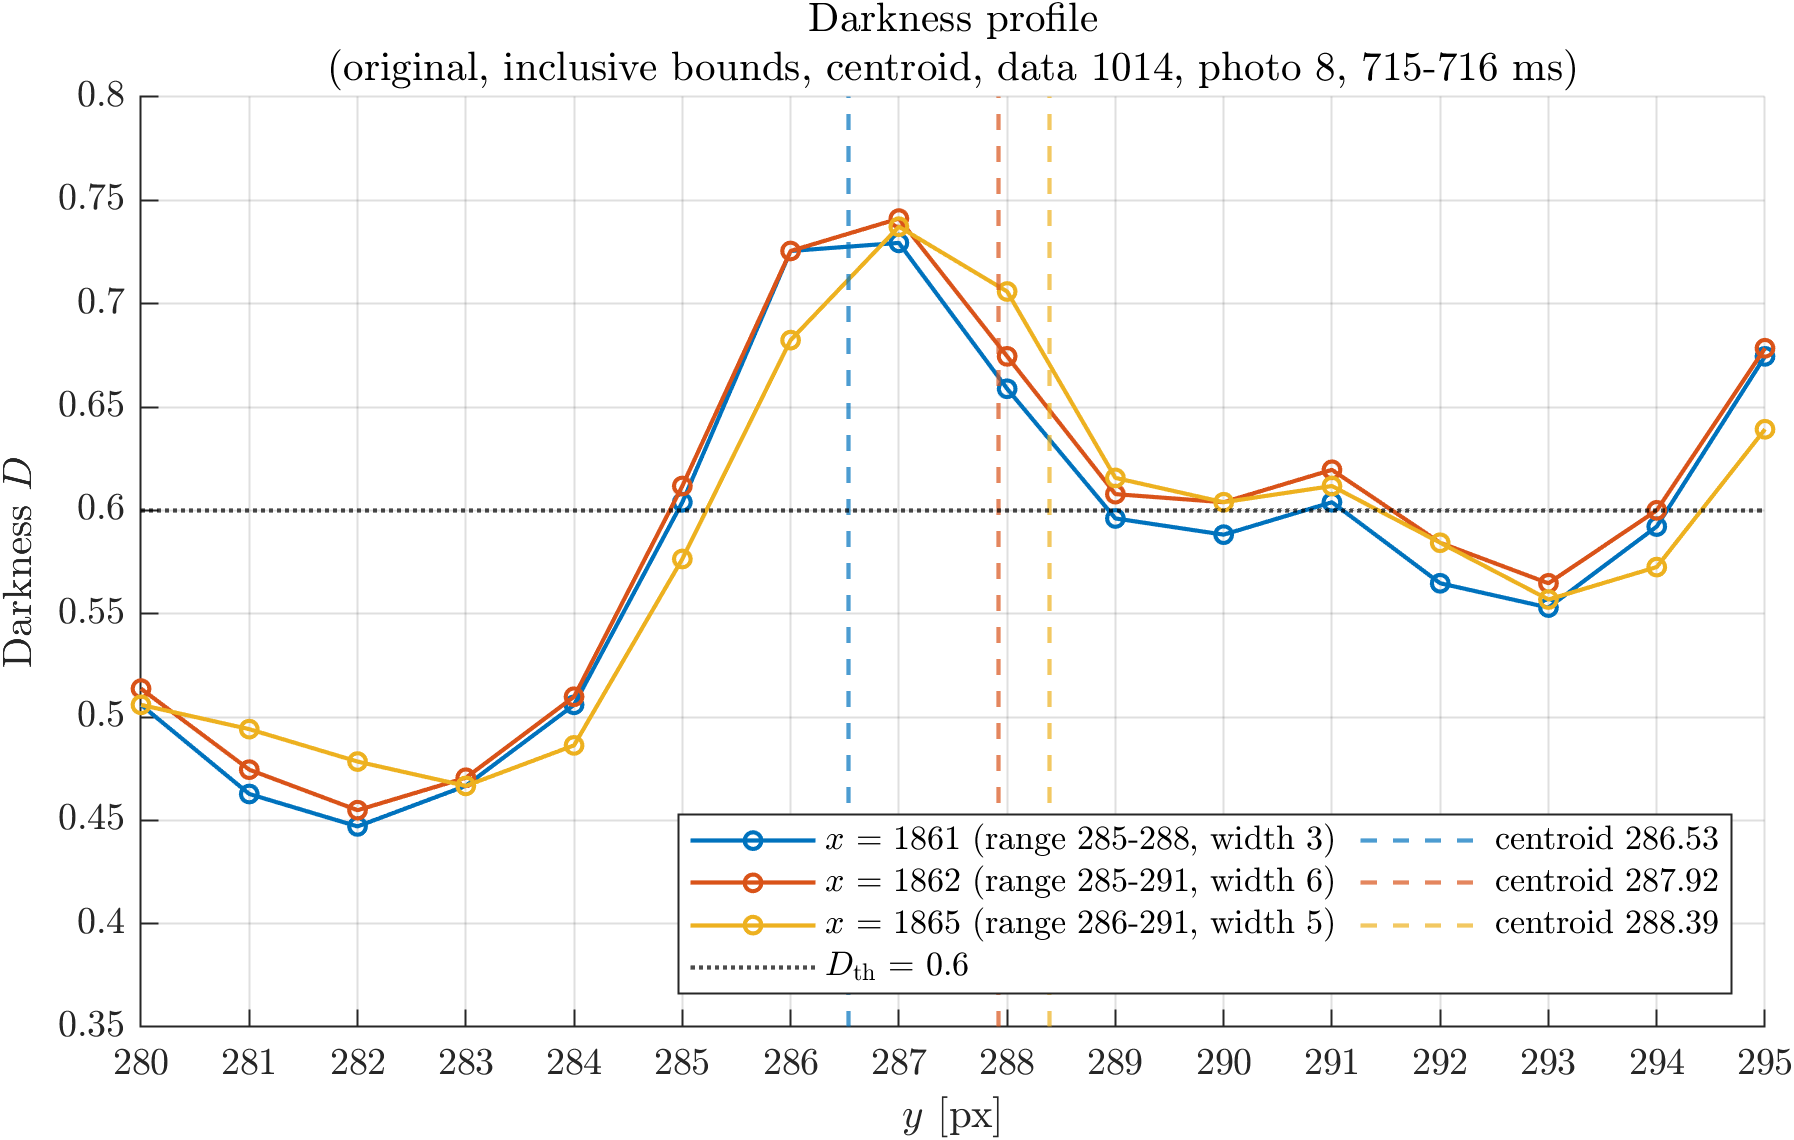
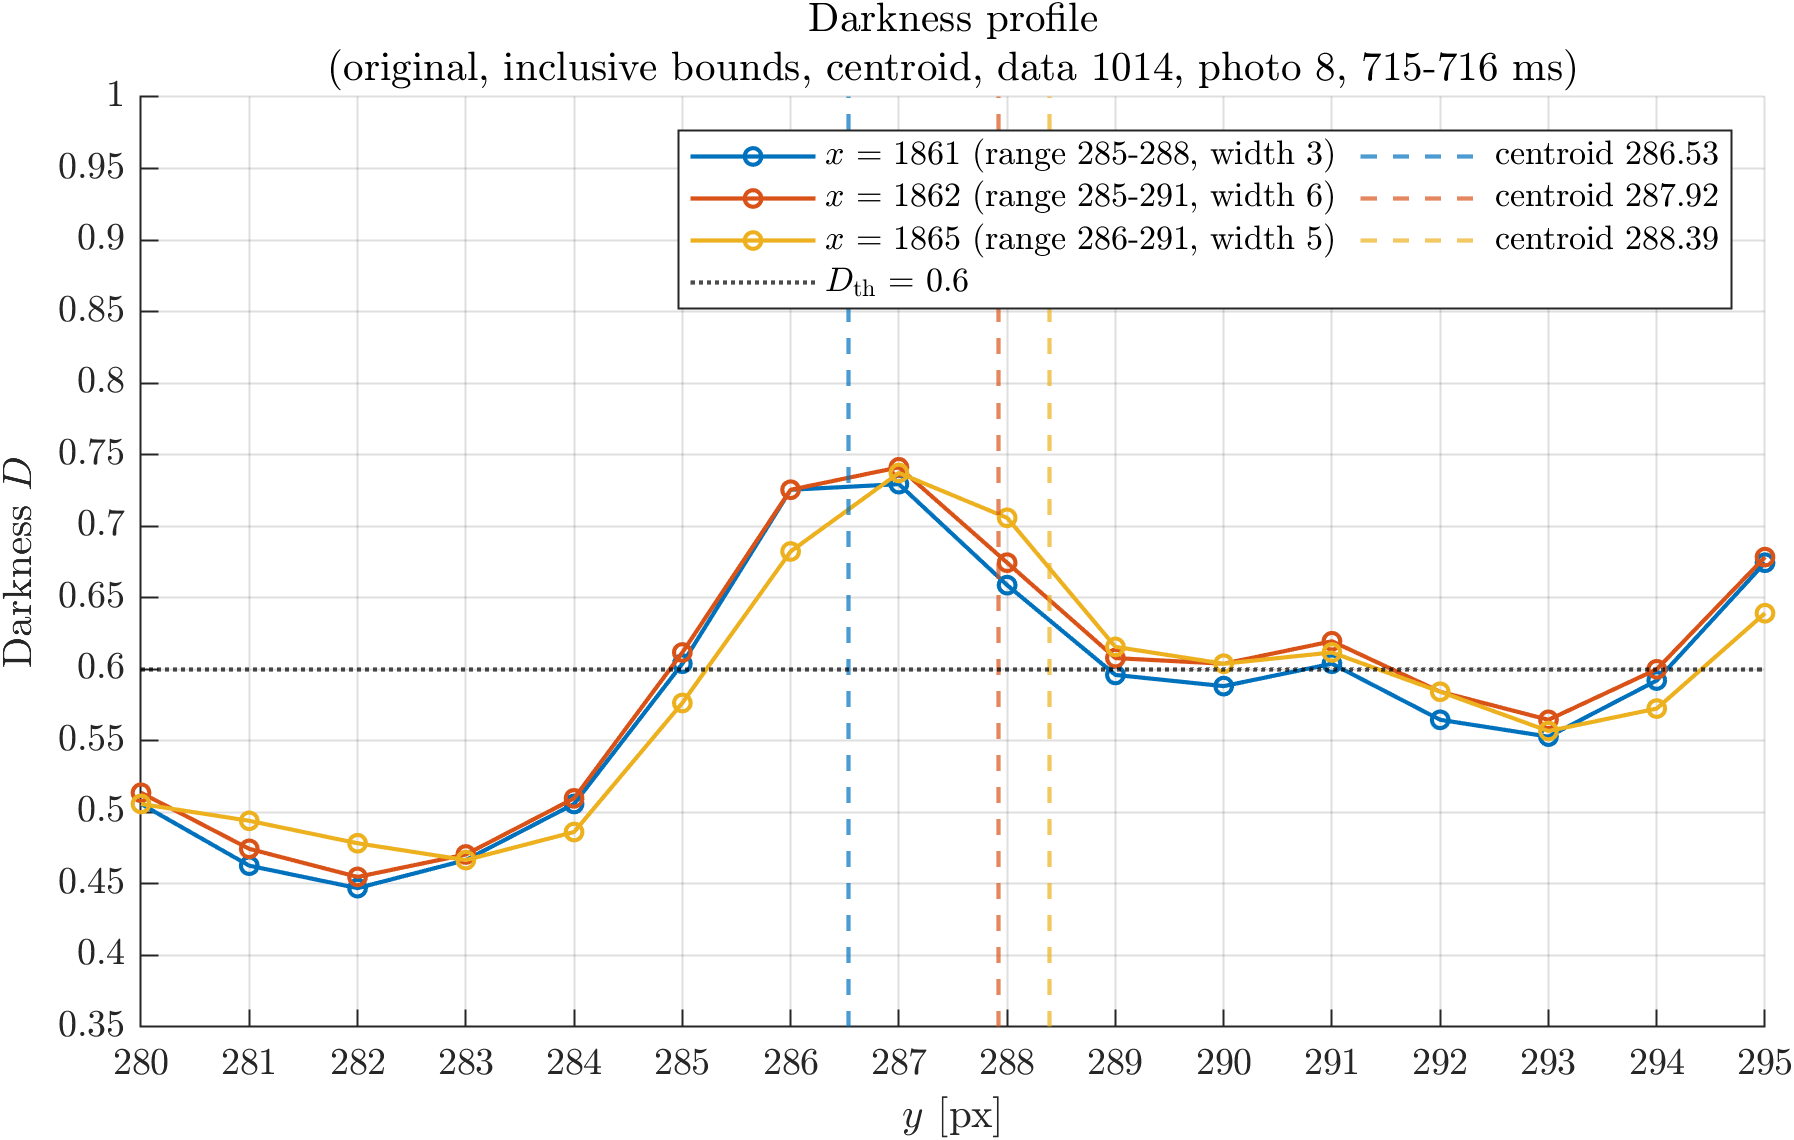
#35 の進捗報告の素材：M3 の凡例を右上の2列にして作り直す
ユーザーの決定で、M3 の凡例を右上に2列で置き、暗さの軸を 0.35〜1.0 にした。

Agent: illustrator
Agent: main

diff --git a/scripts/progress/wideBottomOutlier.m b/scripts/progress/wideBottomOutlier.m
@@ -26,9 +26,9 @@
 %            M2・M3 を作り直した
 % 2026/11/23 ユーザーの決定で、凡例の位置を右上（northeast）にそろえ、OVERWRITE=true で M2 だけを作り直した
 %            （MAKE_FIGS.profile=false）。M3 は右上にすると凡例が折れ線の山を隠すので、右下のまま残した
-% 2026/11/23 M3 の凡例を右上にし、暗さの軸の上限を 0.95 に上げる試しを temp/ のコピーで作った。凡例が
-%            3本の破線の上の部分にかかるので、M3 は保存せず、パラメータを右下・上限 0.8 に戻した。暗さの軸の
-%            目盛りの間隔（D_TICK）を決めるようにした（上限 0.8 では、前と同じ目盛りになる）
+% 2026/11/23 ユーザーの決定で、M3 の凡例を右上（2列）にし、暗さの軸を 0.35〜1.0（目盛りの間隔 0.05。
+%            D_TICK）にした。凡例が重心の破線の上の部分にかかるのは、ユーザーが受け入れた。OVERWRITE=true で
+%            M3 だけを作り直した（MAKE_FIGS.crop=false）
 
 setDefaultIntrpr();
 proj = currentProject();
@@ -56,13 +56,13 @@ LEGEND_LOCATION_CROP = "northeast"; % 凡例の位置（描画領域の右上。
 % M3：暗さの分布
 PROFILE_X = [1861 1862 1865]; % 暗さの分布を描く列（写真の中の px）。1861 は幅3のふつうの列
 PROFILE_Y = [280 295];        % 描く y の範囲 [px]
-D_LIM = [0.35 0.8];           % 暗さの軸の範囲（凡例を右上にするなら、上限を上げる。下の LEGEND_LOCATION_PROFILE）
-D_TICK = 0.05;                % 暗さの軸の目盛りの間隔（上限を上げても、この間隔のままにする）
+D_LIM = [0.35 1.0];           % 暗さの軸の範囲。上限は、右上の凡例が折れ線の最大（約 0.74）より上に来るように
+                              % 0.8 から上げた（ユーザーの決定、2026-11-23）
+D_TICK = 0.05;                % 暗さの軸の目盛りの間隔
 FIG_SIZE_PROFILE = [16 10];   % 図の大きさ [cm]
-LEGEND_LOCATION_PROFILE = "southeast"; % 凡例の位置。右上にして D_LIM の上限を 0.95 にすると、折れ線の山
-                                       % （y=286〜288、暗さ 0.71〜0.74）は避けられるが、3本の破線（重心）の上の
-                                       % 部分（暗さ 0.79〜0.93）にかかる。そのため右下のまま（2026-11-23、
-                                       % ユーザーに確認中。試しの図は temp/35-progress-material/trial4・trial5）
+LEGEND_LOCATION_PROFILE = "northeast"; % 凡例の位置（右上、2列。同じ色の折れ線と重心の破線が同じ行に並ぶ）。
+                                       % 凡例が重心の破線3本の上の部分にかかるのは、ユーザーが受け入れた
+                                       % （ユーザーの決定、2026-11-23）
 
 % 色（docs/groove-on-image.md と同じ。幅の広い選んだ点の色だけ、このスクリプトで決めた）
 COLOR_ALL = "cyan";                                  % すべての溝底点

diff --git a/docs/issues/closed/35-wide-bottom-outliers/README.md b/docs/issues/closed/35-wide-bottom-outliers/README.md
@@ -265,7 +265,9 @@
 | 2026-11-23 | ユーザー | **決定** M2・M6・M8・M9 の6枚はこのままでよい。<br>**決定** M3 は凡例を右上にし、暗さの軸の上限を 0.8 から上げて（0.95 くらい）、凡例が山にかからないようにする | — |
 | 2026-11-23 | main | M2・M6・M8・M9 を「確認済み」にし、M3 の決定を素材ファイルに書いた | [`progress-material.md`](./progress-material.md)、`e218ade` |
 | 2026-11-23 | illustrator | M3 を、凡例を右上・縦軸の上限 0.95 で試した。凡例は折れ線・点・しきい値の線にはかからないが、重心の破線3本の上の部分（暗さ 0.79〜0.93）にかかるので、保存しなかった。<br>参考に、凡例を1列・上限 1.0 にした図も試し、こちらはどの線にもかからなかった。試しの図は `temp/35-progress-material/trial4/`・`trial5/` にある。スクリプトには、目盛りの間隔を決める値を足した（今の図は変わらない） | [`progress-material.md`](./progress-material.md)、`scripts/progress/wideBottomOutlier.m`、`f7e8d88` |
-| 2026-11-23 | ユーザー | **決定** M3 は、凡例を右上に2列で置き、暗さの軸を 0.35〜1.0 にする。2列にするのは、同じ色の折れ線と重心の破線が同じ行に並び、色（列の x 座標）の対応が分かりやすいためである。凡例が重心の破線の上の部分にかかるのは受け入れる（ユーザーは、いったん1列を選び、すぐに2列に直した） | — |
+| 2026-11-23 | ユーザー | **決定** M3 は、凡例を右上に2列で置き、暗さの軸を 0.35〜1.0 にする。2列にするのは、同じ色の折れ線と重心の破線が同じ行に並び、色（列の x 座標）の対応が分かりやすいためである。凡例が重心の破線の上の部分にかかるのは受け入れる（ユーザーは、いったん1列を選び、すぐに2列に直した） | `07a9378` |
+| 2026-11-23 | illustrator | M3 を、凡例を右上の2列・暗さの軸 0.35〜1.0 にして作り直した（上書き）。凡例の下端は暗さ 0.851 で、折れ線の最大（0.741）より上にある | [`progress-material.md`](./progress-material.md)、`scripts/progress/wideBottomOutlier.m`、`results/figures/progress/grooveBottomDetection/`（図1枚） |
+| 2026-11-23 | main | 書いてよい範囲の外が変わっていないことと、凡例の位置・列の数・縦軸の範囲を fig から確かめた | — |
 ### 振り返り — 完了
 
 | 日付 | 担当 | 内容 | 成果物 |
